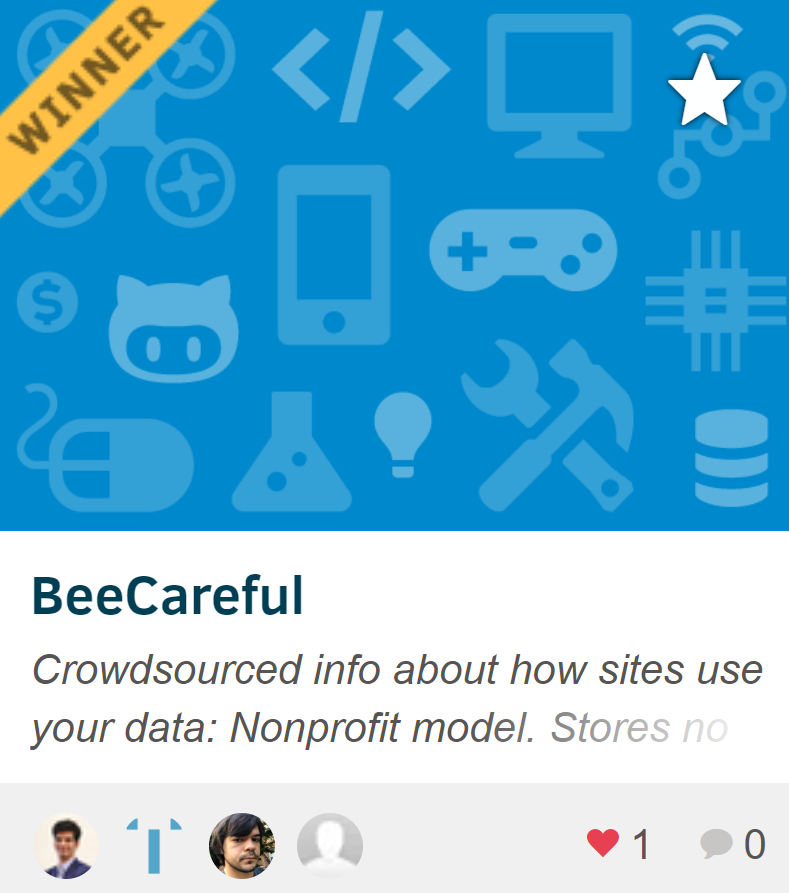
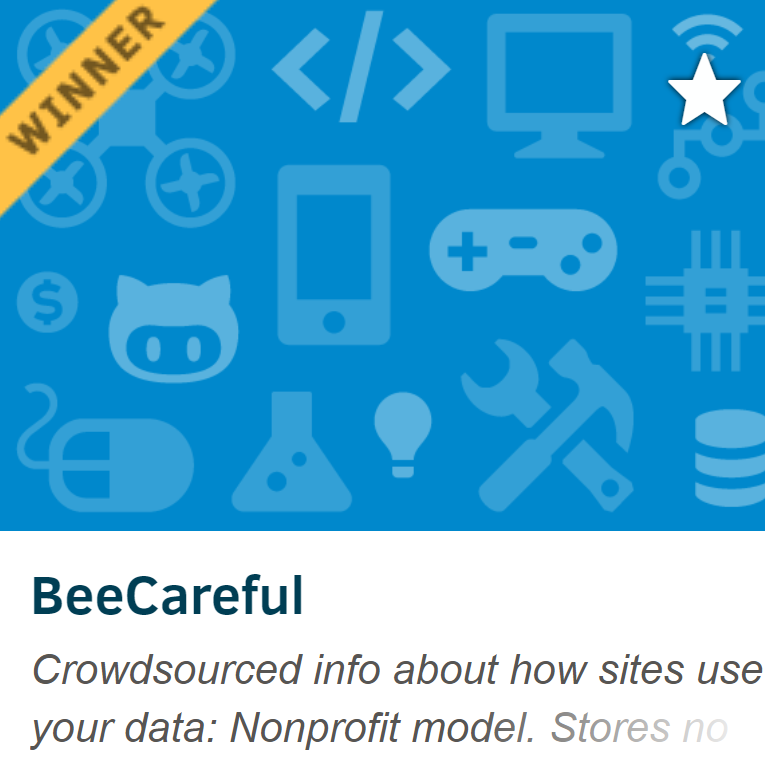
Projects Page

diff --git a/Projects.html b/Projects.html
@@ -2,23 +2,14 @@
 <!DOCTYPE html>
 <html lang="en">
 
-<link rel="stylesheet" type="text/css" href="css/coming_soon.css">
-
-<div class="bgimg">
-  <div class="topleft">
-    <href="../images/Logo.png">
-  </div>
-  <div class="middle">
-    <h1>COMING SOON</h1>
-    <hr>
-  </div>
 
 <head> 
+<link rel="stylesheet" type="text/css" href="css/bootstrap.min.css">
+<link rel="stylesheet" type="text/css" href="css/main.css">
 
 </head>
 
-<body> 
-<head> 
+<body>  
   <!-- navbar -->
  <nav class="navbar navbar-dark bg-dark">
   <nav class="navbar navbar-expand-lg fixed-top ">
@@ -37,11 +28,11 @@
 
 	  <div class="collapse navbar-collapse " id="navbarSupportedContent"> 
 	    <ul class="navbar-nav mr-4">
-		 <li><a href="#About" class="smoothScroll">About  &nbsp </a></li>
-		 <li><a href="#Portfolio" class="smoothScroll">Portfolio  &nbsp </a></li>
-		 <li><a href="#Blog" class="smoothScroll">Blog &nbsp</a></li>
+		 <li><a href="index.html#About" class="smoothScroll">About  &nbsp </a></li>
+		 <li><a href="index.html#Portfolio" class="smoothScroll">Portfolio  &nbsp </a></li>
+		 <li><a href="index.html#Blog" class="smoothScroll">Blog &nbsp</a></li>
 		 <li><a href="Projects.html" class="smoothScroll">Projects &nbsp </a></li>
-	     <li><a href="#Contact" class="smoothScroll">Contact &nbsp</a></li>
+	     <li><a href="index.html#Contact" class="smoothScroll">Contact &nbsp</a></li>
 
 <!--
 {% comment %} 
@@ -63,6 +54,9 @@
  </nav> 
 </nav>
 
+<header> 
+ <h1> Projects </h1> 
+</header> 
 
 
 
@@ -70,6 +64,16 @@
     <p>Will provide information on each group project and individual project I have 
     worked on or completed. Including summaries, links, further insight on goals and objectives. </p>
   </div>
-</div>
+    <div class="col-lg-4 col-md-4 col-sm-12">
+		<a href="https://devpost.com/software/beecareful-z5n20l">
+		<img src="images\DevPost_BeeCareful.png" class="img-fluid">
+		</a>	
+	</div>
+		<br> <br>
+	<div class="col-lg-4 col-md-4 col-sm-12">
+		<a href="https://devpost.com/software/letmecode">
+		<img src="images/DevPost_LetMeCode.png" class="img-fluid">
+		</a>	
+	</div>
 
 </body> 

diff --git a/coming_soon.html b/coming_soon.html
@@ -3,6 +3,9 @@
 <html lang="en">
 
 <link rel="stylesheet" type="text/css" href="css/coming_soon.css">
+<link rel="stylesheet" type="text/css" href="css/bootstrap.min.css">
+<link rel="stylesheet" type="text/css" href="css/main.css">
+
 
 <div class="bgimg">
   <div class="topleft">

diff --git a/index.html b/index.html
@@ -143,10 +143,7 @@
 				<p>
 				Projects
 				</p> 
-			</div>
-
-			<div class="col-lg-4 col-md-4 col-sm-12">
-				<img src="" class="img-fluid">
+				</a>
 			</div>
 
 		</div>
